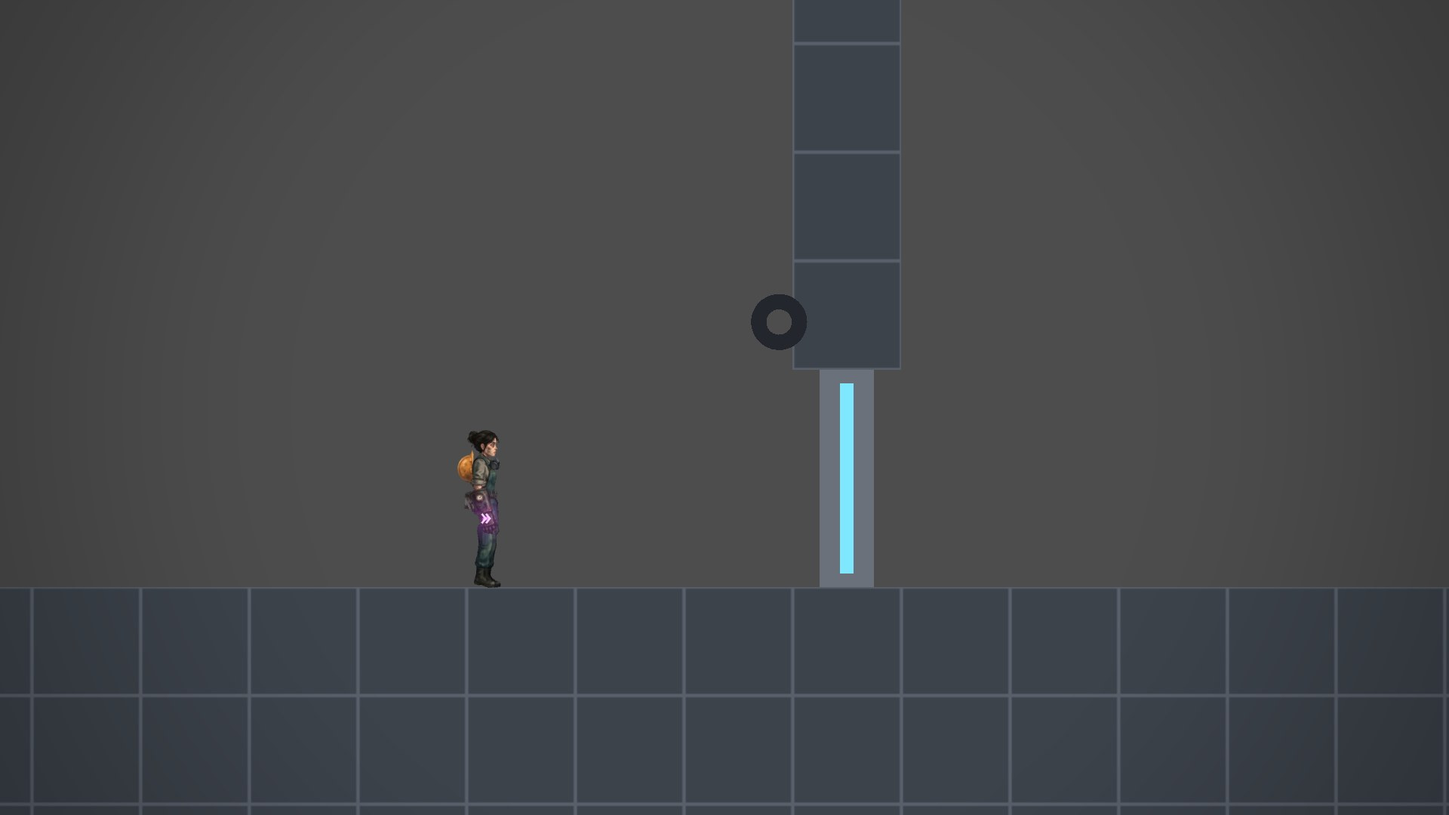
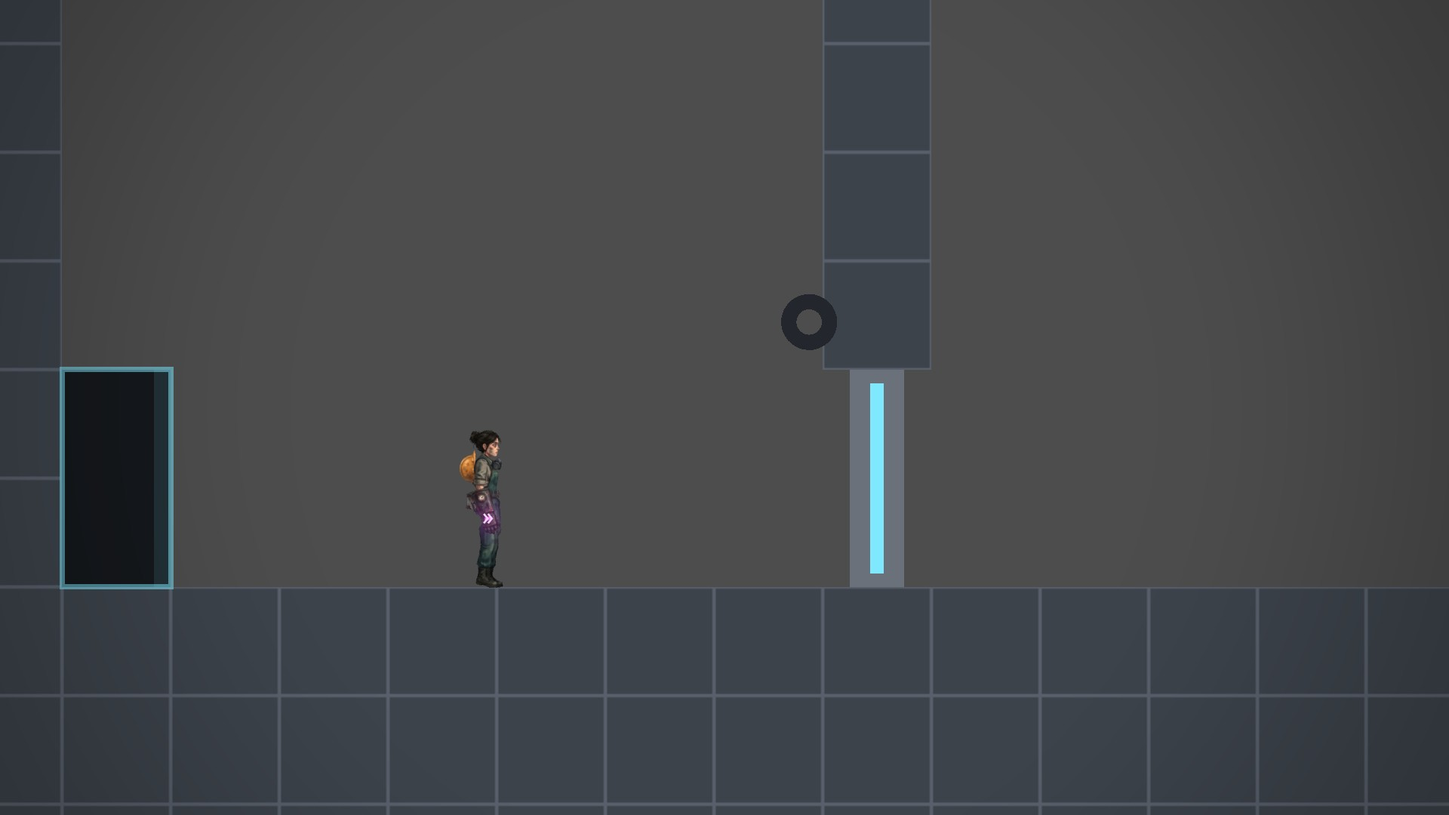
Docs: scale table for the kit, level cards and Gemini refs after D112
docs/art/scale.md gives every part's size next to the heroine; the level
01 card follows the new room; the grey reference shots for Gemini are
re-taken from the smaller level.

Claude-Session: https://claude.ai/code/session_016uMLMsmnYv8Pxs3Zb8uLqY

diff --git a/docs/levels/01.md b/docs/levels/01.md
@@ -1,41 +1,41 @@
 # Уровень 01 — Следствие
 
-Статус: 16.11.2026 слит с бывшим уровнем 03 «Платформа» (решение Артёма, задача 3.2) и в тот же день расширен: шире экрана, камера едет за героем, герой выходит из дверного проёма, платформы длиннее и быстрее. Дверь осталась из прежнего 01, платформы пришли из 03. Блокаут серый; проверить руками.
+Статус: 16.11.2026 слит с бывшим уровнем 03 «Платформа» (решение Артёма, задача 3.2) и в тот же день расширен: шире экрана, камера едет за героем, герой выходит из дверного проёма, платформы длиннее и быстрее. Дверь осталась из прежнего 01, платформы пришли из 03. 22.11.2026 уменьшен под героиню (D112, [art/scale.md](../art/scale.md)): прыжок теперь в один её рост, двери и платформы — 2 клетки, пропасть 10 клеток, комната 32×17. Смысл и решение прежние.
 
 - **Чему учит:** Shift обращает время мира, но не игрока; пока Shift зажат на начале истории, мир стоит; отпущенный Shift повторяет записанное (правило «А»), и на этом можно ехать; обратное время не только возвращает, но и поднимает.
 - **Новые элементы:** дверь (`Door`, режим «один раз»), индикатор над дверью, зона выхода, платформа (`MovingPlatform`, режим «один раз»), две платформы подряд, дверной проём входа (декорация), выход героя в начале.
 - **Начинается со следствия:** да, нескольких: дверь закрывается сама, платформа уже уехала, вторая платформа уже начала уходить вниз. Причину искать не нужно.
 - **Набор среды:** A, «Машинный зал».
-- **Размер:** 48×17 клеток по 64 px, то есть 3072×1088 px, около 1,6 экрана в ширину (экран 1920×1080). Камера едет за героем и упирается в края комнаты.
+- **Размер:** 32×17 клеток по 64 px, то есть 2048×1088 px, чуть шире экрана (1920×1080). Высокий цех: играют в нижней половине, наверху окна, фермы и кран. Камера едет за героем и упирается в края комнаты.
 
 ## Что видит игрок при входе
 
-Слева в стене тёмный дверной проём с тонкой циановой рамкой, из него выходит герой: проявляется и идёт вправо сам 1,2 с (клавиши в это время не работают), потом управление его. Он останавливается примерно в трёх клетках от высокой стены с проёмом: дверь в нём закрывается прямо сейчас, медленно, над ней циановый индикатор гаснет. За стеной пол обрывается в пропасть шириной 18 клеток (1152 px), прыжком её не перепрыгнуть. Над пропастью уезжает вправо платформа 1. Справа пропасть кончается высокой стеной-уступом с выходом наверху, а у самого уступа платформа 2 уже ползёт вниз. Слева на дно ведут ступени по клетке, чтобы выбраться назад: падение не смертельно.
+Слева в стене тёмный дверной проём, из него выходит героиня: проявляется и сама идёт вправо 0,8 с (клавиши в это время не работают), потом управление её. Она останавливается примерно в трёх клетках от стены с проёмом: дверь в нём закрывается прямо сейчас, медленно. За стеной пол обрывается в пропасть шириной 10 клеток (640 px, больше четырёх прыжков), прыжком её не перепрыгнуть. Над пропастью уезжает вправо платформа 1. Справа пропасть кончается уступом высотой 3 клетки, на нём выход, а у самого уступа платформа 2 уже ползёт вниз. Слева на дно ведут ступени по клетке, чтобы выбраться назад: падение не смертельно.
 
 ## Геометрия (клетки, столбец и строка с нуля)
 
-- Дверной проём входа: столбец 1, строки 7–9; герой появляется в нём.
-- Левый пол: столбцы 0–19, верх в строке 10. Стена с дверью: столбец 11 (дверь в строках 7–9, выше стена).
-- Пропасть: столбцы 20–37, дно в строке 15, слева ступени (столбцы 20–23).
-- Платформа 1 (3 клетки шириной): старт вплотную к краю пола, столбцы 20–22, верх в строке 10; едет на 12 клеток вправо, конец в столбцах 32–34.
-- Платформа 2 (3 клетки): столбцы 35–37, верх в строке 5 вровень с уступом, вплотную к нему; опускается на 9 клеток, до строки 14 (на клетку выше дна).
-- Уступ: столбцы 38–47, верх в строке 5. Зона выхода: столбцы 41–42, строки 3–4.
+- Дверной проём входа: столбец 1, строки 10–11; героиня появляется в нём.
+- Левый пол: столбцы 0–13, верх в строке 12. Стена с дверью: столбец 8, от потолка до строки 9, дверь в строках 10–11 (128 px, 1,4 роста героини).
+- Пропасть: столбцы 14–23, дно в строке 15, слева ступени (столбцы 14–15).
+- Платформа 1 (2 клетки шириной): старт вплотную к краю пола, столбцы 14–15, верх в строке 12; едет на 6 клеток вправо, конец в столбцах 20–21.
+- Платформа 2 (2 клетки): столбцы 22–23, верх в строке 9 вровень с уступом, вплотную к нему; опускается на 5 клеток, до строки 14 (на клетку выше дна).
+- Уступ: столбцы 24–31, верх в строке 9, на 3 клетки выше пола (прыжком не взять). Зона выхода: столбцы 27–28, строки 7–8.
 
 ## Предыстория
 
-`prelude_seconds` = 3,5, `intro_seconds` = 1,2 (всё в `data/levels.json`).
+`prelude_seconds` = 2,5, `intro_seconds` = 0,8 (всё в `data/levels.json`). Секунды мира идут в 1,25 раза быстрее настоящих (D96).
 
-| Время мира τ | Дверь | Платформа 1 (128 px/с) | Платформа 2 (96 px/с) |
+| Время мира τ | Дверь | Платформа 1 (96 px/с) | Платформа 2 (64 px/с) |
 | --- | --- | --- | --- |
-| 0–1 с | открыта | у края, едет | наверху у уступа |
-| 1–5 с | закрывается (4 с), индикатор гаснет | едет вправо | с τ = 2,67 с начинает опускаться |
-| 6,0 с | закрыта | **приезжает в конец пути (768 px) и стоит** | **как раз проходит уровень конца платформы 1**, вплотную к ней |
-| 6,0–8,67 с | закрыта | стоит | продолжает опускаться |
-| после 8,67 с | закрыта | стоит | стоит внизу |
+| 0–0,5 с | открыта | у края, едет | наверху у уступа |
+| 0,5–4 с | закрывается (3,5 с) | едет вправо | с τ = 1 с начинает опускаться |
+| 4,0 с | закрыта | **приезжает в конец пути (384 px) и стоит** | **как раз проходит уровень конца платформы 1**, вплотную к ней |
+| 4–6 с | закрыта | стоит | продолжает опускаться |
+| после 6 с | закрыта | стоит | стоит внизу |
 
-Герой появляется на τ = 3,5 с: дверь закрыта примерно на 60 %, проём ниже роста героя; платформа 1 прошла 448 px, платформа 2 на 80 px ниже уступа.
+Героиня появляется на τ = 2,5 с: дверь закрыта больше чем наполовину, проём ниже её роста; платформа 1 прошла 240 px, платформа 2 на 96 px ниже уступа.
 
-Совпадение «платформа 2 на уровне конца платформы 1 именно когда та приезжает» задано числами (задержка платформы 2 = 6,0 с − 5 клеток / 96 px/с = 2,6667 с) и проверено тестом: игроку не надо ждать, а то, что путь наверх уходит вниз у него на глазах, подсказывает откатить время.
+Совпадение «платформа 2 на уровне конца платформы 1 именно когда та приезжает» задано числами (задержка платформы 2 = 4,0 с − 3 клетки / 64 px/с = 1,0 с) и проверено тестом: игроку не надо ждать, а то, что путь наверх уходит вниз у него на глазах, подсказывает откатить время.
 
 ## Причина
 
@@ -47,14 +47,14 @@
 
 - Дверь и платформа 1: пока Shift зажат, мир откатывается на начало истории (τ = 0) и там стоит, дверь открыта, платформа у края. Держать Shift можно сколько угодно.
 - Платформа 1 приезжает и остаётся: с неё можно сойти когда угодно.
-- Платформа 2: пока она проходит уровень платформы 1 и ещё несколько секунд после, на неё шагают прямо с конца платформы 1; потом она стоит внизу, и на неё можно спрыгнуть (4 клетки, падение не вредит). Подъём на ней идёт, пока зажат Shift, и ничем не ограничен.
+- Платформа 2: пока она проходит уровень платформы 1 и ещё немного после, на неё шагают прямо с конца платформы 1; потом она стоит внизу, на неё можно спрыгнуть или запрыгнуть со дна пропасти (одна клетка). Подъём на ней идёт, пока зажат Shift, и ничем не ограничен.
 
 ## Решение по шагам
 
 1. Герой вышел из проёма. Зажать Shift: дверь открывается, мир откатывается на начало и стоит. Идти вправо через проём к краю пола и встать на платформу 1 (Shift держать).
-2. Отпустить Shift: платформа 1 повторяет записанный путь и везёт героя через пропасть (6 с). К концу пути платформа 2 подходит вплотную на его уровне.
-3. Шагнуть вправо на платформу 2: она опускает героя на дно пропасти (около 3 с).
-4. Зажать Shift: платформа 2 поднимает героя обратно к уступу (6 с). Платформа 1 при этом едет назад, героя на ней нет.
+2. Отпустить Shift: платформа 1 повторяет записанный путь и везёт героя через пропасть (около 3 с). К концу пути платформа 2 подходит вплотную на его уровне.
+3. Шагнуть вправо на платформу 2: она опускает героя к дну пропасти (около 1,5 с).
+4. Зажать Shift: платформа 2 поднимает героя обратно к уступу (около 4 с). Платформа 1 при этом едет назад, героя на ней нет.
 5. Не отпуская Shift, сойти на уступ и войти в зону выхода. Конец уровня.
 
 ## Если отпустить Shift (правило «А»)

diff --git a/docs/progress.md b/docs/progress.md
@@ -25,6 +25,7 @@
   - **Артём:** сыграть уровень 02 с затопленным тоннелем (D100, ниже) и сказать по плейтесту, что дальше. Темп мира `world_tempo` (D96) подкручивать в `data/time.json`, начала событий и скорости вод — в `levels.json` (`prelude_events`, `objects`).
   - **Тесты** (18.11): все команды с `--fixed-fps 60` — прогон ~20 с вместо 7 мин; один набор: `... test_runner.gd -- fire` (см. Commands в `CLAUDE.md`).
   - **Л:** дать уровень 01 человеку со стороны без объяснений (первая кнопка в списке уровней; с 16.11 в нём дверь и две платформы) и записать, где он застрял и сколько ушло времени.
+- **22.11.2026, мир под рост героини (D112, ветка `claude/lucid-carson-avha2f`):** Артём: героиня рядом с миром маленькая, прыгает слишком далеко и высоко, поэтому платформы широкие и всё большое. Героиня осталась как есть (92 px = 1,75 м), уменьшились прыжок и мир. Прыжок теперь в один её рост (≈100 px, было 138), в длину ≈150 px (2,3 клетки), бег 260 px/с (было 360) — `data/player.json`. Уровень 01 пересобран меньше при том же решении: комната 32×17 (была 48×17), дверь и обе платформы по 2 клетки, пропасть 10 клеток, уступ на 3 клетки выше пола; тайминги в `levels.json` (предыстория 2,5 с, выход 0,8 с, платформы 96 и 64 px/с); раскладка мира Д3 переложена под новую комнату, кирпич заглушки 28×10 (был 64×24), размеры кладки и бетона вынесены в `look.json` (`masonry_px`, `concrete_px`). В 02 и 04 сдвинуто только то, что новый прыжок не берёт: поплавок колодца 02 на 1,5 клетки ближе к стене, полки рычага и вентиля 04 на клетку выше и ближе. Решения 01, 02, 04 перезаписаны. Таблица размеров для картинок — [art/scale.md](art/scale.md); снимки `ref_close`/`ref_room` для Gemini пересняты. 279 тестов и UI-тест зелёные. **Проверить:** F5, уровень 01 — прыжок, платформы, кирпич рядом с героиней; Tab — вся комната. **Дальше:** Артём и Борис играют 01 — не слишком ли низкий прыжок; Борис рисует детали по [art/scale.md](art/scale.md); уровни 02 и 04 переделать под новый масштаб отдельными чатами (О, Claude Code).
 - **22.11.2026, уровень 04 — линии воды читаются (D108, ветка `ccr-5290cbf6-5crmry`):** Артём: всё неочевидно, две трубы, одна пересекает другую. Рычаг моста и вентиль автоматики поменялись полками: рычаг на нижней (один прыжок с площадки), вентиль на верхней у стены. Магистраль автоматики идёт от вентиля вверх по стене, по потолку над баком и вниз к завалу; линия моста от бака — под ней, пересечений нет (тест). Трубы стали трубами (`WaterPipe`, `objects/mech/water_pipe.gd`): открытая линия полна воды, пока льёт — внутри бегут светлые штрихи к соплам, под Shift назад; закрытая сливается и темнеет. Линия моста тоньше и с фланцами, магистраль толще. Числа — `pipe` в `data/look.json`. Решения `bridge_only` и `run_early` переписаны под новые места. 272 теста и UI-тест зелёные. **Проверить:** F5, уровень 04, Tab — общий вид; `tools/shots.sh --level level_04 --plan '130:overview' --at 40,95 --every 1000`. **Дальше:** Артём играет 04 снова — читается ли, что вентиль перекрывает воду к завалу.
 - **22.11.2026, Д3 мир уровня 01 на заглушках и бриф для Gemini (D106, D107, ветка `ccr-3bb4f9e8-k4x4vh`):** уровень 01 — ночной цех: кирпичная стена, окна с ночным небом, колонны, фермы, балка крана, бак и трубы фона, сажа, потёки, трещины; пол и уступ с верхней гранью (ноги на её середине, столкновения прежние — серые блоки невидимы); на полу обломки. Темнота — `CanvasModulate`, пять ламп-островков (вход, заслонка, платформа 1, пропасть, выход) с мягким тёплым светом, миганием от времени мира (под Shift идёт назад) и пылью в свете; на героине слабый свой свет, только на ней. Всё нарисовано кодом-заглушкой; картинка Gemini встаёт поверх одной строкой пути в `world.textures` `data/look.json`. Раскладка уровня — данные: `world` в записи уровня в `levels.json` (детали по клеткам, лампы, бетон); числа набора — `world` в `look.json`; проверка данных и 6 тестов в `tests/test_world.gd`. Код: `core/world_data.gd`, `art/world/` (`world_back`, `world_ground`, `world_light`, `kit_textures`, `mesh_painter`), сборщик `tools/build_level_01.gd`. Нагрузка: уровень 01 рисуется за 91 вызов (блокаут — 19; первая версия — 501, заглушки стены теперь одна сетка). **Осталось:** картинки Gemini (бриф [art/gemini-kit.md](art/gemini-kit.md)) и скрипт их вырезки; проверить веб-сборку после слияния (CI `build.yml`) — не тормозит ли; люди: «темно, но видно, куда идти».
 - **21.11.2026, D56 «а» — стоячая комната не растит историю (ветка `claude/fervent-bardeen-br3vb5`):** если после тика ничего в комнате не изменилось, кадр не пишется: голова «стоит» и считает тики простоя. Начало истории больше не выпадает, сколько ни думай; первый тик Shift перескакивает весь простой, второй уже двигает мир. Простой не повторяется после отпускания (повтор идёт по кадрам без пауз). У кадров есть тик мира: на нём `simulate_tick`, тики в состоянии дерева и украшения (рябь, искры, частицы) — они идут и в стоячей комнате; при перескоке простоя украшения прыгают (плавность — потом, если помешает). Нажатие на стоячей голове пишется новым кадром, чтобы откат вернул «до нажатия». Код: `core/timeline.gd`, `core/time_world.gd`, `levels/room_time.gd`, огнемёт; тесты: 10 новых (ядро и «каждый уровень 25 с без ввода хранит кадр 0»), 3 старых переписаны на тик мира; решения всех уровней не менялись. Описание — `architecture.md`, 2.1в.

diff --git a/docs/history.md b/docs/history.md
@@ -199,6 +199,7 @@
 | 22.11.2026 | Эталонный кадр Gemini задаёт вид (кисть, цвета, свет, материалы), а не геометрию; толщину пола у Gemini не добиваемся: верх пола он рисует плоско сверху (Н-2a), передняя кромка — отдельно (Н-2b), код сжимает верх в полоску `top_face_px` и собирает `floor_top` (D109) | Борис: первый кадр Э-1 красивый, но пол — широкая дорога, и Gemini не понимает «уже»; генераторы картинок плохо держат пропорции, а плоские текстуры рисуют уверенно |
 | 22.11.2026 | Перед коммитом для PR — повторная проверка (D110): `git fetch`, открытые PR и что пришло в `main` с начала сессии; если `main` ушёл — слить его в свою ветку, оставить строки обеих сторон в документах, прогнать оба теста; номера решений (D…) брать только в этот момент — следующий свободный в `main` и во всех открытых PR; если открытый PR меняет те же файлы — сказать человеку до push. В `CLAUDE.md` (шаг 4), `AGENTS.md` и `.agents/workflows/finish.md` | Борис: сессия идёт часами, проверка открытых PR была только в начале; за это время Артём слил #63 — конфликт в `history.md`, а номера D106 и D108 взяли обе сессии |
 | 22.11.2026 | Картинки набора из файлов держатся в памяти (`KitTextures.kept`); верх пола у Gemini — крупные плиты, жирные швы, большие пятна, сильный контраст (D111) | Проверка «плоская текстура → полоска в игре»: картинка из файла после `_draw` выгружалась, и пол рисовался белым прямоугольником (в темноте — серым); заглушки хранились, поэтому ошибку не было видно. При сжатии в 16 px мелкий рисунок сливается в ровный серый, остаётся только крупное |
+| 22.11.2026 | Мир под рост героини (D112): героиня 92 px = 1,75 м, около 52 px на метр; прыжок в один рост (≈100 px вверх, ≈150 px в длину, `jump_velocity` 690, `gravity` 2400), бег 260 px/с; ступень в клетку берётся, две клетки — нет; двери и платформы по 2 клетки; кирпич 28×10; уровень 01 пересобран 32×17 при том же решении; в 02 и 04 сдвинуто только то, что прыжок перестал брать; размеры деталей — `docs/art/scale.md`; тест высоты прыжка теперь 96–120 px, тест ширины комнаты 01 — «шире экрана» вместо «1,5 экрана» | Артём 22.11: героиня рядом с миром маленькая — прыгает на полтора роста и на 4 клетки, поэтому платформы широкие, ездят далеко, и всё выглядит большим. Уменьшать мир, а не растить героиню (выбор Артёма из двух): её рисунок устраивает, а рост героини ломал бы узкие проходы 02 и не уменьшал бы огромный кирпич. Сетку 64 px не трогали: на ней блоки, набор Д3, раскладки и уровни 02 и 04, её смена — неделя работы за 8 дней до сдачи. Уровни 02 и 04 по-настоящему переделать под масштаб — отдельными чатами (Артём) |
 
 ## Журнал
 
@@ -262,3 +263,4 @@
 | 22.11.2026 | Д3 мир уровня 01 и бриф Gemini (ветка `ccr-3bb4f9e8-k4x4vh`) | Борис: запросы Gemini без объяснения игры бесполезны — переписать; потом Д3 на заглушках | бриф и запросы `docs/art/gemini-kit.md`, снимки-образцы; мир уровня 01 кодом: стена, пол с гранью, темнота, 5 ламп, пыль; 91 вызов отрисовки; D106, D107; 6 тестов | запишет следующий чат |
 | 22.11.2026 | Д3, продолжение: первый кадр Gemini (ветка `ccr-3bb4f9e8-k4x4vh`, после слияния #64) | Борис: пол получается широкой дорогой, Gemini не понимает «уже» | кадр сохранён образцом, запросы пола Н-2 переписаны (плоско сверху и спереди), совет «править картинку, мерить по ботинку»; D109 (D108 занял Артём в #63); слит `main` после #63, конфликт в `history.md`; правило повторной проверки перед PR — D110 | запишет следующий чат |
 | 22.11.2026 | Д3: как плоская текстура становится полом (ветка `ccr-3bb4f9e8-k4x4vh`, после слияния #65) | Борис: как из плоской картинки получится нужное? | картинка-пример `docs/art/gemini/flat_floor_demo.png` (Gemini → сжатие → кадр игры); найдена и исправлена ошибка: картинки из файлов выгружались и рисовались белым; запрос Н-2a — крупно и контрастно; D111; тест | запишет следующий чат |
+| 22.11.2026 | Мир под рост героини (ветка `claude/lucid-carson-avha2f`) | Артём: героиня маленькая рядом с миром, прыгает слишком далеко; переделать уровень, чтобы Борис рисовал детали в правильном размере | D112: прыжок в один рост, бег 260; уровень 01 32×17 с дверью и платформами по 2 клетки; кирпич 28×10; 02 и 04 — минимальные сдвиги под новый прыжок; решения перезаписаны; `docs/art/scale.md`, снимки для Gemini пересняты; 279 тестов зелёные | запишет следующий чат |

diff --git a/docs/art/scale.md b/docs/art/scale.md
@@ -1,0 +1,51 @@
+# Масштаб: всё по росту героини (D112)
+
+22.11.2026 мир уменьшен под героиню. До этого прыжок был в полтора её роста, двери и платформы в два роста, кирпич стены почти с её голову, и героиня рядом с миром казалась маленькой. Героиня осталась как есть, уменьшились прыжок и детали мира.
+
+## Мера
+
+- **Героиня — 92 px = 1,75 м**, отсюда **1 м ≈ 52 px**. Хитбокс 44×92, рисунок 92–96 px в высоту.
+- **Клетка — 64 px ≈ 1,2 м** (0,7 роста). Сетка столкновений и набора не меняется: на ней стоят блоки, раскладки уровней в `levels.json` и уровни 02 и 04.
+- Камера в игре приближает (`zoom` 2,25 в `data/camera.json`), так что на экране героиня около 200 px. Картинки рисуются в размере мира, а не экрана.
+
+## Движение (`data/player.json`)
+
+| Что | Сейчас | Было | В клетках |
+| --- | --- | --- | --- |
+| Прыжок вверх | ≈ 100 px, один рост | 138 px | 1,5 |
+| Прыжок в длину с разбега | ≈ 150 px | 250 px | 2,3 |
+| Бег | 260 px/с | 360 px/с | 4 в секунду |
+
+Что из этого следует для уровней:
+
+- ступень в 1 клетку — запрыгнуть легко; в 1,5 клетки — на пределе; **2 клетки — нельзя**, нужен лифт, ящик или полка между;
+- разрыв в 2 клетки на одной высоте перепрыгнуть можно; **3 клетки — нельзя**;
+- подъём на клетку и разрыв в 2 клетки одновременно — можно, с края.
+
+## Детали
+
+| Деталь | В игре, px | Клеток | Ростов героини | Как в жизни |
+| --- | --- | --- | --- | --- |
+| Дверь-заслонка | 32×128 | 0,5×2 | 1,4 | 2,5 м, служебная дверь цеха |
+| Дверной проём входа | 64×128 | 1×2 | 1,4 | |
+| Платформа | 128×32 | 2×0,5 | ширина 1,4 | грузовая площадка 2,5×0,6 м |
+| Ход платформы в уровне 01 | 384 вбок, 320 вниз | 6 и 5 | | |
+| Ступень, уступ | 64 | 1 | 0,7 | |
+| Верхняя грань пола | 16 (`top_face_px`) + уголок 6 (`edge_px`) | | | стальные плиты пола |
+| Рычаг | 32×64 | 0,5×1 | 0,7 | по грудь |
+| Зона выхода | 128×128 | 2×2 | | |
+| Кирпич стены | 28×10 (`brick_px`) | | голова героини — 2 кирпича | крупный кирпич, вдвое больше настоящего |
+| Блок кладки фундамента | 32×16 (`masonry_px`) | | | |
+| Блок бетона | 64×32 (`concrete_px`) | | | |
+| Окно цеха | 80×160 | 1,25×2,5 | 1,7 в высоту | 1,5×3 м, высоко на стене |
+| Колонна | ≈ 19 в ширину | 0,3 | | чугунная колонна 0,4 м |
+| Лампа | висит на 3 клетки над полом | | | |
+
+Числа деталей набора — в `world` файла `game/data/look.json`, раскладка уровня 01 по клеткам — в `world` записи уровня в `game/data/levels.json`.
+
+## Для картинок Gemini
+
+- Gemini рисует как угодно крупно. Размер в игре задаёт код, поэтому важны **пропорции детали**, а не пиксели картинки.
+- **Плитки** (кирпич Н-1, кладка Н-2c, верх пола Н-2a) игра кладёт один к одному по пикселям. Скрипт вырезки уменьшает картинку так, чтобы кирпич стал 28×10 px. Плитка Н-1 (4 кирпича на 10 рядов) в игре — 112×100 px.
+- **Отдельные детали** (окно, дверь, платформа) растягиваются на свой прямоугольник из таблицы. Если пропорция картинки другая, деталь сплющится. Значит, у Gemini просить пропорцию из таблицы: дверь 1:4, платформа 4:1, окно 1:2.
+- Сверять удобно по героине: дверь чуть выше неё, платформа — полтора её роста в ширину, рычаг ей по грудь.

diff --git a/docs/art/log.md b/docs/art/log.md
@@ -11,5 +11,5 @@
 | `docs/art/heroine/character_parts.jpg` | картинка нейросети: приложение Gemini, как выше, 19.11.2026 | лист 12 частей куклы на сером фоне: голова, каска, респиратор, торс, таз, два плеча, предплечье с наручем и кистью, дальнее предплечье с перчаткой, бедро, голень с ботинком, батарея. Точный запрос не сохранён; присланный файл сжат до 512×286, оригинала нет | наш, как выше | нет; части из него лягут в `game/assets/art/heroine/parts/` в Д5 |
 | `docs/art/heroine/character_parts_hq.jpg` | картинка нейросети: приложение Gemini, тот же лист частей, что `character_parts.jpg`, снимок экрана телефона 2340×1080 (серый лист внутри, тёмные полосы по бокам), прислал Борис 19.11.2026 | 12 частей куклы в 3,8 раза крупнее прежнего JPG | наш, как у `character_parts.jpg` | нет; источник частей Д5 |
 | `game/assets/art/heroine/parts/*.png`, `parts/full/*.png`, `parts.json` | вырезано кодом Claude (`tools/cut_heroine_parts.py`) из `docs/art/heroine/character_parts_hq.jpg`, 19.11.2026 | 12 частей куклы Д5: серый фон убран заливкой от края, мягкий край, полоска индикатора на наруче закрашена тёмным стеклом (её рисует код цветом времени, D76); в `parts.json` — место каждой части на листе | наш, как у `character_parts.jpg` | да, героиня в игре (Д5) |
-| `docs/art/gemini/ref_close.jpg`, `ref_room.jpg` | снимки игры, сделаны кодом Claude (`tools/shots.sh`, уровень 01 в сером блокауте, крупный план ×2,25 и вся комната), 22.11.2026; на снимках — героиня из `game/assets/art/heroine/` | образец кадра для Gemini, к брифу в `docs/art/gemini-kit.md` | наш | нет, образец для Gemini |
+| `docs/art/gemini/ref_close.jpg`, `ref_room.jpg` | снимки игры, сделаны кодом Claude (`tools/shots.sh`, уровень 01 в сером блокауте, крупный план ×2,25 и вся комната), 22.11.2026, пересняты в тот же день после уменьшения мира под героиню (D112); на снимках — героиня из `game/assets/art/heroine/` | образец кадра для Gemini, к брифу в `docs/art/gemini-kit.md` | наш | нет, образец для Gemini |
 | `docs/art/gemini/raw/e1_close_v1.jpg` | картинка нейросети: приложение Gemini, прислал Борис 22.11.2026 | эталонный кадр Э-1 по брифу `docs/art/gemini-kit.md` (перерисованный снимок `ref_close.jpg`): ночной цех, две лампы, заслонка с рейкой и шестернями, героиня | наш (сгенерировано по нашему запросу); условия Google на коммерческое использование — проверить до релиза, как у героини | нет, образец вида |

diff --git a/docs/art/gemini-kit.md b/docs/art/gemini-kit.md
@@ -9,6 +9,7 @@
    - [`docs/art/gemini/ref_close.jpg`](gemini/ref_close.jpg) — игра сейчас, так видит игрок (камера ×2,25);
    - [`docs/art/gemini/ref_room.jpg`](gemini/ref_room.jpg) — вся первая комната издалека;
    - [`docs/art/heroine/character_ref.jpg`](heroine/character_ref.jpg) — героиня, это образец кисти;
+   - снимки `ref_close` и `ref_room` пересняты 22.11 после уменьшения мира (D112): размеры деталей рядом с героиней — в [scale.md](scale.md);
    - по желанию — снимок экрана макета «Ночной цех» (<https://claude.ai/artifact/4oXXyUdMz88da8hk4ozYFC>), образец настроения.
 
    В конце брифа Gemini должен пересказать его в пяти строках. Если пересказ мимо — поправить словами до того, как он начнёт рисовать.
@@ -38,6 +39,8 @@ THE LAYERS, from back to front:
 HOW THE GAME USES YOUR PICTURES. Every piece is a separate image. The game cuts it out of its background, scales it to the grid and places it; walls and floors repeat side by side as tiles. The game makes all the light: the room is dark, and small warm lamps light only the things the player needs. So every piece must be painted in flat, even, neutral light, like a material swatch: no shadow cast by the object, no light source, no glow, no dark corners or vignette, no fog. Shading only where the form itself turns (a round pipe, a rivet head). Painted-in lighting breaks as soon as the game lights the piece. The background behind an isolated piece is flat pure green #00FF00, perfectly even, so it can be keyed out; holes and empty window panes inside a piece are the same flat green. Never use that green inside a piece.
 
 THE LOOK: "Night factory". An old factory of red brick and black cast iron in a near future between old mechanics and new technology: rust, tired warehouse and laboratory spaces, a few working new machines among them. Serious and atmospheric, not cartoonish, yet every shape reads at a glance. Materials: sooty red-brown brick with grey mortar; near-black cast iron with cold grey worn edges and rivets; grey-ochre concrete; orange-brown rust; tin; old wood; rubber. Everything the player moves or presses (levers, buttons, crates, the edge of a moving platform) is worn signal-yellow paint over steel. The world is warm (yellow things, orange lamps); time is cold purple, and purple belongs only to the heroine's gauntlet: never use purple, magenta or cyan in the environment, and nothing in the environment glows.
+
+THE SCALE. Everything is sized to the heroine, as a real factory would be next to a real woman: a door is a little taller than her, a moving platform is one and a half of her heights wide, a step is up to her waist, a lever reaches her chest, one brick is about half her head wide. Never draw the world giant next to her.
 
 THE BRUSH. Hand-painted digital art in the same style as the attached heroine: painterly but clean, soft texture, medium detail that still reads when the piece is small. No black outlines. Not pixel art, not a photo, not a 3D render.
 

diff --git a/docs/levels/04.md b/docs/levels/04.md
@@ -12,7 +12,7 @@
 
 Героиня выходит из проёма слева. Впереди через бездонную пропасть горит мост, в дальнем конце в проходе к выходу горит завал. Над завалом из трубы в стене начинает лить автоматика: завал гаснет, идёт пар. Ещё через секунду мост прогорает, доски ломаются с середины и падают в пропасть.
 
-Ступени ведут вправо на площадку у пропасти. Над полом слева висят две полки: нижняя — на высоте площадки, на ней жёлтый рычаг; верхняя — у стены, на ней вентиль (D108: поменялись местами, чтобы трубы не пересекались). От рычага тяга вверх к баку под потолком, от бака тонкая труба с фланцами идёт к соплам над мостом. От вентиля толстая магистраль поднимается по стене, идёт по потолку над баком через весь цех и спускается к автоматике над завалом. В открытой линии видна вода: пока льёт, внутри бегут светлые штрихи к соплам (под Shift — назад); закрытая линия пустеет и темнеет (`WaterPipe`, числа `pipe` в `look.json`).
+Ступени ведут вправо на площадку у пропасти. Над полом слева висят две полки: нижняя — на клетку выше площадки и в двух клетках от неё, на ней жёлтый рычаг; верхняя — у стены, ещё на клетку выше и в двух клетках от нижней, на ней вентиль (D108: поменялись местами, чтобы трубы не пересекались; D112: полки поставлены под прыжок в один рост героини, он берёт 2 клетки вбок, но не 3). От рычага тяга вверх к баку под потолком, от бака тонкая труба с фланцами идёт к соплам над мостом. От вентиля толстая магистраль поднимается по стене, идёт по потолку над баком через весь цех и спускается к автоматике над завалом. В открытой линии видна вода: пока льёт, внутри бегут светлые штрихи к соплам (под Shift — назад); закрытая линия пустеет и темнеет (`WaterPipe`, числа `pipe` в `look.json`).
 
 ## Предыстория
 

diff --git a/docs/levels/02.md b/docs/levels/02.md
@@ -24,7 +24,7 @@
 | Уступ героя | колонки 1–4, верх на ряду 11 | на 5 клеток ниже линии воды |
 | Колодец | колонки 5–15, дно на ряду 15 | 11 в ширину, 9 в глубину от линии, 4 ниже уступа |
 | Вода колодца | колонки 1–15 (накрывает и уступ) | при полной воде уступ под водой |
-| Поплавок колодца | колонки 10–12, на воде | 3×0,5; от его края до стены 3 клетки, прыжок героя — 4 |
+| Поплавок колодца | колонки 11,5–14,5, на воде | 3×0,5; от его края до стены 1,5 клетки, прыжок героини — около 2,3 (D112: прыжок в один рост, поплавок сдвинут к стене) |
 | Решётка слива | на дне колодца, слева от поплавка | декорация, место из данных (`outlet_inset_px`) |
 | Стена | колонки 16–17, верх на линии | 2 в ширину; выше уступа на 5 клеток, выше прыжка |
 | Бассейн | колонки 18–27, дно на ряду 10 | 10 в ширину, 4 в глубину от линии |
@@ -37,7 +37,7 @@
 | Ступени | колонки 46–49: верх на рядах 9, 8, 7, 6 | по одной клетке, к линии; колонка 45 над тоннелем открыта, чтобы прыгнуть на первую |
 | Выход | колонки 49–51, ряды 4–5, пол на линии; зона выхода в колонках 50–51 | 2 клетки (128 px), над проходом стена |
 
-Из колодца без воды не выбраться: уступ выше дна на 4 клетки, а прыжок меньше двух с половиной. Из бассейна тоже: дно на 4 клетки ниже линии. Из шахты назад тоже: 4 клетки. До площадки достаёт только полный поплавок бассейна. Голова героини под водой, пока вода выше 78 px над её ногами.
+Из колодца без воды не выбраться: уступ выше дна на 4 клетки, а прыжок — около полутора (D112). Из бассейна тоже: дно на 4 клетки ниже линии. Из шахты назад тоже: 4 клетки. До площадки достаёт только полный поплавок бассейна. Голова героини под водой, пока вода выше 78 px над её ногами.
 
 В полном тоннеле от шахты до ступени, где голова над водой, — около 6 с под водой при 5 с воздуха (решение `level_02_swim_tunnel.json` тонет).
 

diff --git a/CLAUDE.md b/CLAUDE.md
@@ -160,4 +160,5 @@ Details: `docs/style.md` (the style test), `docs/setting.md`, `docs/art-pipeline
 - The heroine wears the time device as a gauntlet on her forearm; the time-direction indicator lives on it.
 - Time reads in the picture by motion: particles, light pulses and the wrist device run the other way in reverse mode.
 - Special items glow only where there is light. Reverse items and decoration play inverted animations. Fire danger reads by shape and particles before contact, not by one color.
+- Scale (D112, 22.11): the world is sized to the heroine: 92 px = 1.75 m, about 52 px a metre; the jump is about one height (≈100 px up, ≈150 px across, 2.3 cells); a step of one cell is easy, two cells need a lift, a crate or a ledge between; doors and platforms are two cells; sizes of every part in `docs/art/scale.md`.
 - Level geometry and collision come from the blockout in Godot, never from an image. AI art goes in only after the approved look (`docs/art/level01-look.md`).
